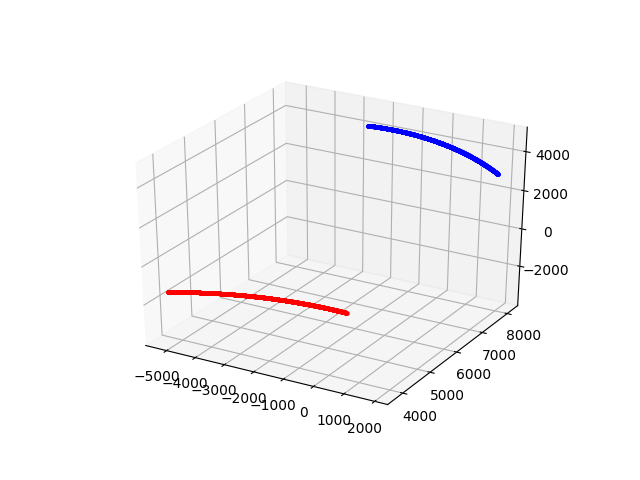
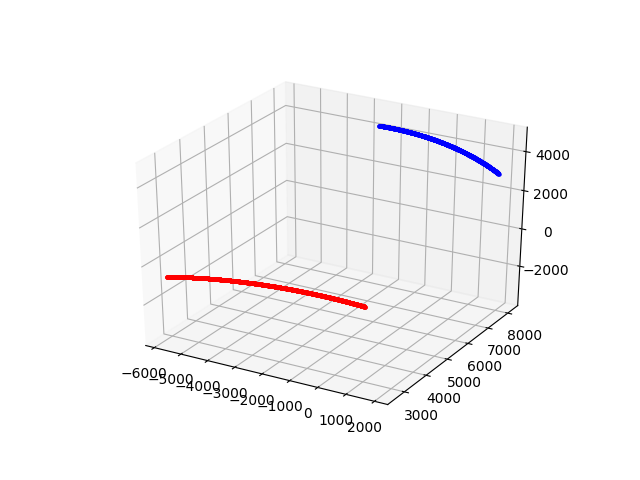
separated height and velocity calculation in Satellite class

Changed region(s): [[0.1875, 0.1875, 0.7812, 0.9062], [0.625, 0.6875, 0.8438, 0.875], [0.2188, 0.3125, 0.25, 0.5312]]

diff --git a/laser.py b/laser.py
@@ -30,17 +30,21 @@ class Laser(object):
 	def sat_distance(self, satellite: Satellite):
 
 
+		return 0
+
+
 	def calc_velocity_change(self):
+		return 0
 
 
 
 
-	def hit_satellite(satellite_object, duration, calc_velocity_change):
+	def hit_satellite(satellite: Satellite, duration, velocity_change):
 
 		for i in range(duration):
-			satellite_object.change_mean_motion(0.1)
+			satellite.change_mean_motion(0.1)
 
-			print(satellite_object.get_position_and_velocity[1])
+			print(satellite.get_position_and_velocity[1])
 
 
 		return satellite_object

diff --git a/satellite.py b/satellite.py
@@ -35,6 +35,7 @@ class Satellite(object):
 		self.orbital_time = (0, 0, 0, 0, 0, 0)
 
 
+
 	def set_position(self, year, month, day, hour, minutes, sec):
 
 		self.orbital_time = (year, month, day, hour, minutes, sec)

diff --git a/orbit_simulation.py b/orbit_simulation.py
@@ -43,7 +43,7 @@ fig = plt.figure()
 ax = fig.add_subplot(111, projection='3d')
 
 col = 'blue'
-simulation_time = 1400
+simulation_time = 2000
 
 
 for i in range(simulation_time):
